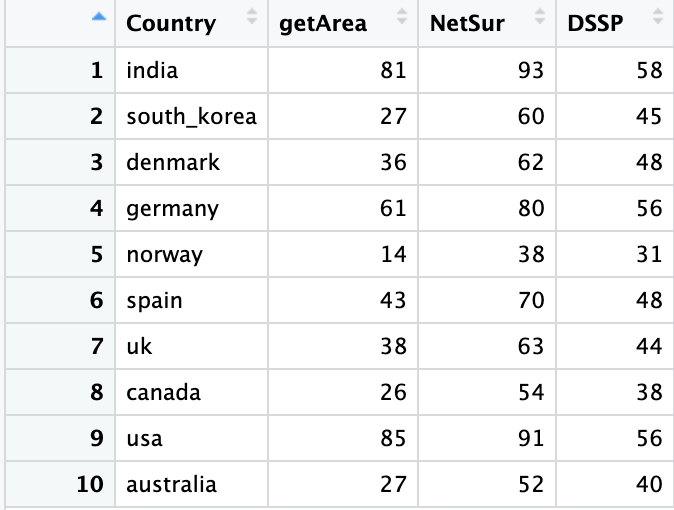
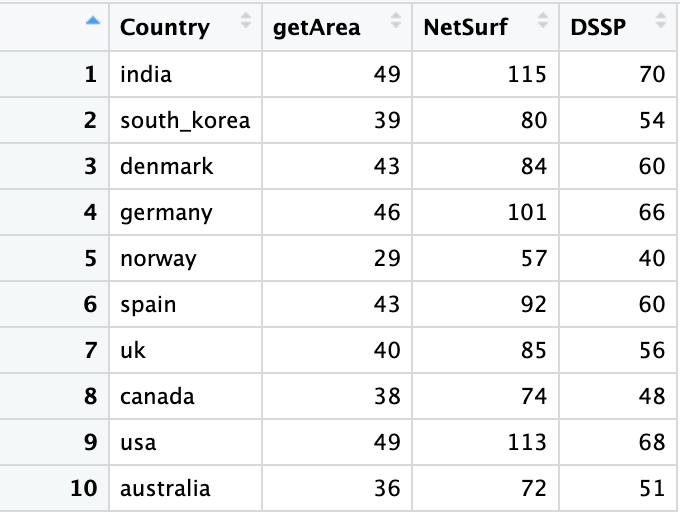
Pressure to Weight
Pressure calculation was modified and further downstream process documented

Changed region(s): [[0.0, 0.0, 1.0, 1.0], [0.0, 0.9706, 0.0312, 1.0]]

diff --git a/notes/Work_documented.md b/notes/Work_documented.md
@@ -2,12 +2,12 @@
 id: r423m96u71ix4pb458fk8u2
 title: Work_documented
 desc: 'This is file contains all the steps done for the master thesis'
-updated: 1706599860070
+updated: 1708935902291
 created: 1700240700998
 ---
 # Objective
 
-The study is regarding the role of population genetics in the determining the susceptibility to a SARS CoV19 variant.
+Is it possible to predict the positions that are vulnerable for forth coming mutations.
 
 ## Steps in the workflow
 
@@ -126,62 +126,89 @@ ten_country_mut_data/* \
 
 ## Finding positions under pressure (BIG GOAL)
 
-The big goal is to find the positions under pressure. To obtain this, firstly the frequency of each position(RBD spike mutations in position 330-530)([[Question on the position|Work_documented.possible_questions#5-aaccording-to-uniprot-the-rbd-region-in-spike--is-319-541aa]]) in the aa_substitution has to be first calculated and interpolated to get the daily data.
+The big goal is to find the positions under pressure. To obtain this, firstly the frequency of of mutation on each position of Spike RBD and NTD Epitopes are calculated. (RBD spike mutations in position 330-530, NTD(14-20,140-158,245-264) mutations)([[Question on the position|Work_documented.possible_questions#5-aaccording-to-uniprot-the-rbd-region-in-spike--is-319-541aa]]) For this the aa_substitution data obtained from GISAID was used.
 ![frequency interpolation](assets/Pics/Frequency_interpolation.png)
+
+**STEPS:**
 
 - For Each country the mutation data from GISAID has been used as the input.
 - This data consist of the lineage, collected date, location of collection, a string of aa_substitution.
-- All the aa_substitution strings that are collected on the same day are considered together. This also gives the number of entries collected in a day = number sequences
-- From these strings the spike RBD mutations are alone extracted using getRBDmut function.
-- The data frame gets reduced to date,number of sequences,spike RBD mutations string.
-- To calculate the frequency for a time step all the possible unique spike RBD mutations present in the country is first compiled.
+- All the aa_substitution strings that are collected on the same day are considered together. This also gives the number of entries collected in a day = number sequences colleceted on a day.
+- From these strings the spike RBD, NTD epitope mutations are alone extracted using getintrmut function.
+- The data frame gets reduced to date,number of sequences,spike RBD/NTD mutations string.
+- To calculate the frequency of a mutation for a time step, all the possible unique spike RBD, NTD mutations present in the country is first compiled.
 - Then the frequency of each of this mutation for a day is calculated.
-  > Frequency of pos_373 on 01-01-2022 = $\frac{count\space of\space pos\_373\space on\space 01-01-2022}{Number\space of\space sequences\space on\space 01-01-2022}$
-- To have the frequency data for everyday from Jan 1 2022 - Oct 31 2023, linear [[interpolation|Glossary#interpolation]] is done using the approximate method. The result of the interpolation is added to the corresponding date in the country data_frame.
+  > Frequency of pos_373 on 01-01-2022 = $\frac{count\space of\space mutations\space in\space pos\_373\space on\space 01-01-2022}{Number\space of\space sequences\space on\space 01-01-2022}$
+- To have the frequency data for everyday from Jan 1 2022 - Oct 31 2023, linear [[interpolation|Glossary#interpolation]] is done using the approximate method. The result of the interpolation is added to the corresponding date in the country data_frame. This step is necessary to fill in the data gaps.
   
 [[Question on interpolation|Work_documented.possible_questions#4-why-do-we-do-linear-interpolation-why-not-spline-interpolation]]
 
 ## Computing the pressure on the position
 
-With the formula (given by Prof.Max) the pressure on each position was computed
-$\\ P(pos,s)=\sum_{s=t_0}^{t}\exp^{-k[t-s]}\times f(pos,s) \\$
+With the formula (given by Prof.Max) the pressure on each position from t<sub>0</sub> to t was computed
+$\\ P(pos,t)=\sum_{s=t_0}^{t}\exp^{-k[t-s]}\times f(pos,s) \\$
 
-- Where the f(pos,s) is the frequency of the position on time s.
+- Where the f(pos,t) is the frequency of the position on time t.
 - $exp^{-k[t-s]}$ is the discount factor - mutation frequencies that occurred [t-s] days ago get discounted by the half life of neutralising antibodies.
 - $k\sim \frac{ln(2)}{45+14}$
 - By suggestion of the Prof. the vector for discount factor was first computed. For this the date range for each of the country_df was found. If the difference between the start day and the end day is 9 then [t-s] could be in the range 0-9. Hence with this as base the discount factor was computed for [t-s] ranging 0-[difference between the start day to end day in the dataframe]. All these values are stored in a vector.
-- According to the selected $t_0$, $t$ the discount factor vector was sliced and the frequency of the particular position in the time duration $t_0$ to $t$ was matrix multiplied to get the pressure on the position.
-- This was done for all the RBD positions in a country and repeated for all the 10 countries.
-- The output will have two columns - RBD posisition and the pressure on the position.
+- From the start date to the end date the pressure was calculated for everday in the following manner
+- $$$\\
+  P(pos,d1)=\exp^{-k[d1-d1]}\times f(pos,d1) \\
+  P(pos,d2)=\exp^{-k[d2-d1]}\times f(pos,d1) + \exp^{-k[d2-d2]}\times f(pos,d2)\\
+  P(pos,d3)=\exp^{-k[d3-d1]}\times f(pos,d1) + \exp^{-k[d3-d2]}\times f(pos,d2)  + \exp^{-k[d3-d3]}\times f(pos,d3)
+  $$$
+- This was done for all the RBD, NTD positions in a country and repeated for all the 10 countries.
+- The output will have one column with the RBD and NTD positions and with columns as many as the number of days with data in the country
+  ![Pressure output](assets/Pics/Pressure_computed_india.png)
 
 ## Masking
 
-- The objective of masking to find the exposed positions among the RBD spike positions.
+- The objective of masking to find the exposed positions among the RBD, NTD spike positions.
 - To know the exposed residues the solvent accessibility of each of the residues in the spike protein were found. [[Question on solvent acessibility|Work_documented.possible_questions#6-if-a-rbd-spike-position-in-the-wildtype-is-occupied-by-a-hydrophobic-residue-and-it-is-replaced-by-hydrophilic-residue-the-solvent-accessibility-might-change-probably-due-to-the-difference-in-the-fold--in-that-case-should-we-study-these-positions-in-each-of-the-voi]]
 - To find solvent accessibility of the protein various tools were utilitsed. This can be found here[[Work_documented.Finding_surface_residues]]
-- From the output of each of the tool Spike RBD surface positions were found. This process was direct in the case of the output from GetArea and Netsurf3.0 but in the case of DSSP, relative solvent accessibility was computed from the absolute solvent accessibility in the dssp output file. Using this computed relative solvent accessibility the surface residues were found.
+- From the output of each of the tool Spike RBD,NTD surface positions were found. This process was direct in the case of the output from GetArea and Netsurf3.0 but in the case of DSSP, relative solvent accessibility was computed from the absolute solvent accessibility in the dssp output file. Using this computed relative solvent accessibility the surface residues were found.
   
 > The categorising treshold is set as 25% similar to Netsurf3.0. This would need advice.
 
 - The number of surface residues flagged by the 3 tools vary.
   
-> Dssp : 170 residues, NetSur3.0 : 101 residues, GetArea : 104 residues. Though the numbers of getArea and Netsurf are matching, they only flag 28 positions commonly, others are all different. DSSP and Netsurf3.0 share 49 commonly flagged positions. GetArea and Dssp doesn't flag any position commonly.
-
+  - Dssp : 74 residues, NetSur3.0 : 123 residues, GetArea : 50 residues. All three tools flags 36 positions in common, GetArea and netsurf flags 38 common positions, dssp-getarea 48 positions in common, dssp-netsurf 54 positions in common.
+  - Dssp : 12 NTD, 62 RBD
+  - GetArea: 8 NTD, 42 RBD
+  - Netsurf: 22 NTD, 101 RBD
 - Residues flagged by each of the tools are fished from the ten country's position under pressure dataframe. The numbers are tabulated .![Methods comparison](assets/Pics/methods_comparison.png)
+
+The positions being picked by each of the tools are compared with the positions given by Prof.Max(screenshot). The tabulation is available in ```Work/Data_Analysis/Positions_being_picked.numbers```
 
 ## Visualization of the positions under pressure
 
-- To know how the positions under pressure would differ by country I thought heat map will be the good choice
-- To do this a dataframe was created with a column of all the exposed Spike RBD positions given by the tool. Other 10 columns belonging to each of the 10 countries. These columns contain the pressure on each of the positions that was computed earlier . If a position has no record of mutation in a country it is assigned to zero.
-- This dataframe is reshaped to make it usable for geom_tile.
-- The heat map is then plotted on this reshaped dataframe. ![Netsurf output heatmap](assets/plots/netsurf_based_output.png)
-- This was done for the outputs from all 3 tools and the heatmap is saved in different pdfs with ```Work/Data_Analysis/netsurf_based_output.pdf```,```Work/Data_Analysis/dssp_based_output.pdf```,```Work/Data_Analysis/getArea_based_output.pdf```.
+Like previous variant trend visualization, the pressure trend was also visualised using geom_line in two ways, positionwise and countrywise. These plots are present in ```Work/Data_Analysis/pressure_plots```. There are 6 plots - 3 countrywise, 3 positionsise. The 3 denotes the 3 masking tool outputs that were used to generate the plots.
 
-> Inference based on netsurf based output:
-> Pos_339,pos_460: Apart from Australia all other contries have high pressure on this position
-> Pos_346,pos_477,pos_478,pos_484,pos_498,Pos_501: Apart from India all other countries have high pressure.
-> pos_375,pos_376,pos_408: Apart from south korea all other countries have high pressure
+## Entropy for each positions:
 
-```Work/Data_Analysis/Big_goal.Rmd``` has all the scripts regarding the big goal.
+The amino acid substitution on a position is not constant. Example: on position 14 mutations found in india include Spike_Q14H,Spike_Q14del,Spike_Q14R. So calculating the number of such prevailing mutations on a position is the entropy. This was calculated to weigh down the pressure on a postiion .... Not processed further yet
+
+## Neutralisation probability:
+
+For knowing how impactful would a mutation on a site be, the probaility of neutralisation is being calculated. The Probability of neutralisation of a variant y by the antibodies elicited by variant x at time t.
+$$$
+\\
+P_{Neut}(t,x,y)=1-\prod_{v\in A_{x/y}}(1-b_v(t,x,y))
+$$$
+To compute this probability the binding probability $b_v(t,x,y)$ of an antibody of a particular epitope class with the variant is needed.
+$$$
+\\
+b_v(t,x,y)=\frac{exp^{-k[t-s]}}{FR_{x,y}(v).IC50_x(v)+exp^{-k[t-s]}}
+$$$
+
+- The discount factor is used here to represent the diminishing concentration of the antibodies. $FR_{x,y}(v)$ is the fold resistance of a variant y to binding of antibodies of epitope class $(v)$ elicited by variant x [All taken from the lab's paper which is currently in review].
+- The probability of binding is computed in the same manner as the pressure. For each postion that is getting mutated, for each of the antibodies the fold resistance and IC50 that was provided was used. These values were computed and used in the predecessor work by the lab. The resulting dataframe has the position, antibody, epitope class, FR, IC50, $b_v$ series(for all the days in the observation time line). Binding proability with FR=1 and FR provided in the table were used to comput two resulting dataframes.
+- With the computed two binding probability dataframes, two probability of neutralisation dataframes are computed. $P_{1_{Neut}}$ (with FR=1), $P_{2_{Neut}}$. The Probability neutralisation dataframes contains a column for the  position, and other columns dedicated for all the time steps.
+- To compute the probability of neutralisation, for each position, for each time step, the binding probability of all the antibody classes for the time step are considered.
+- To note, if a position binds to more than one antibody belonging to a single epitope class, these binding probabilities are averaged and then used to compute the proability of neutralisiation.
+- The weight is computed by $\frac{P_{1_{Neut}}\space (with FR=1)}{ P_{2_{Neut}}}$.
+- The computed weight is then multiplied with the pressure timestepwise and then the weighted pressure is plotted - Positionwise and countrywise; all the positions are considered irrespective of being exposed or burried. ```Work/Data_Analysis/pressure_plots/pos_pressure_trend_weighted_pressure.pdf```, ```Work/Data_Analysis/pressure_plots/pressure_trend_weighted_pressure.pdf```
+- ```Work/Data_Analysis/Big_goal.Rmd```, ```Work/Data_Analysis/neutralisation_probability.Rmd``` has all the scripts regarding the big goal.
 
 [Definition Reference](https://www.cdc.gov/coronavirus/2019-ncov/variants/variant-classifications.html)

diff --git a/notes/Work_documented.possible_questions.md b/notes/Work_documented.possible_questions.md
@@ -2,7 +2,7 @@
 id: xhw6w5ghbjhkzbo7huxzhwg
 title: Possible_questions
 desc: 'This note is regarding all the question that are to be rised to understand the work'
-updated: 1706599314359
+updated: 1706780755936
 created: 1701937898390
 ---
 
@@ -33,12 +33,14 @@ australia|13257|13261
 
 ### 4. Why do we do linear interpolation, why not spline interpolation?
 
--ANS:
+-ANS: In a sparse data using a spline interpolation might give unexpected results which might not be right.
 
 ### 5. Aaccording to Uniprot the RBD region in spike  is 319-541aa ![spike rbd uniprot](assets/Pics/uniprot_spikeRBD.png)
 
-ANS:
+ANS: There are no interesting epitopes before position 330 and after position 530 so it's fine.
 
 ### 6. If a RBD spike position in the wildtype is occupied by a hydrophobic residue and it is replaced by hydrophilic residue, the solvent accessibility might change probably due to the difference in the fold.  In that case should we study these positions in each of the VOI?
 
-ANS:
+ANS: The Mutation doesnt alter the fold to a great extent, if that happens it will affect the function of the protein, so using the wildtype to compute the solvent accessibility is not so bad idea.
+
+### 7.  The computed pressure trend for a position is obtained by calculating pressure at multiple time points. For now pressure is computed every 180 days. The time horizon is not exactly divisible into bins of 180 days. There will be difference in the final bin. Will this be a problem?
